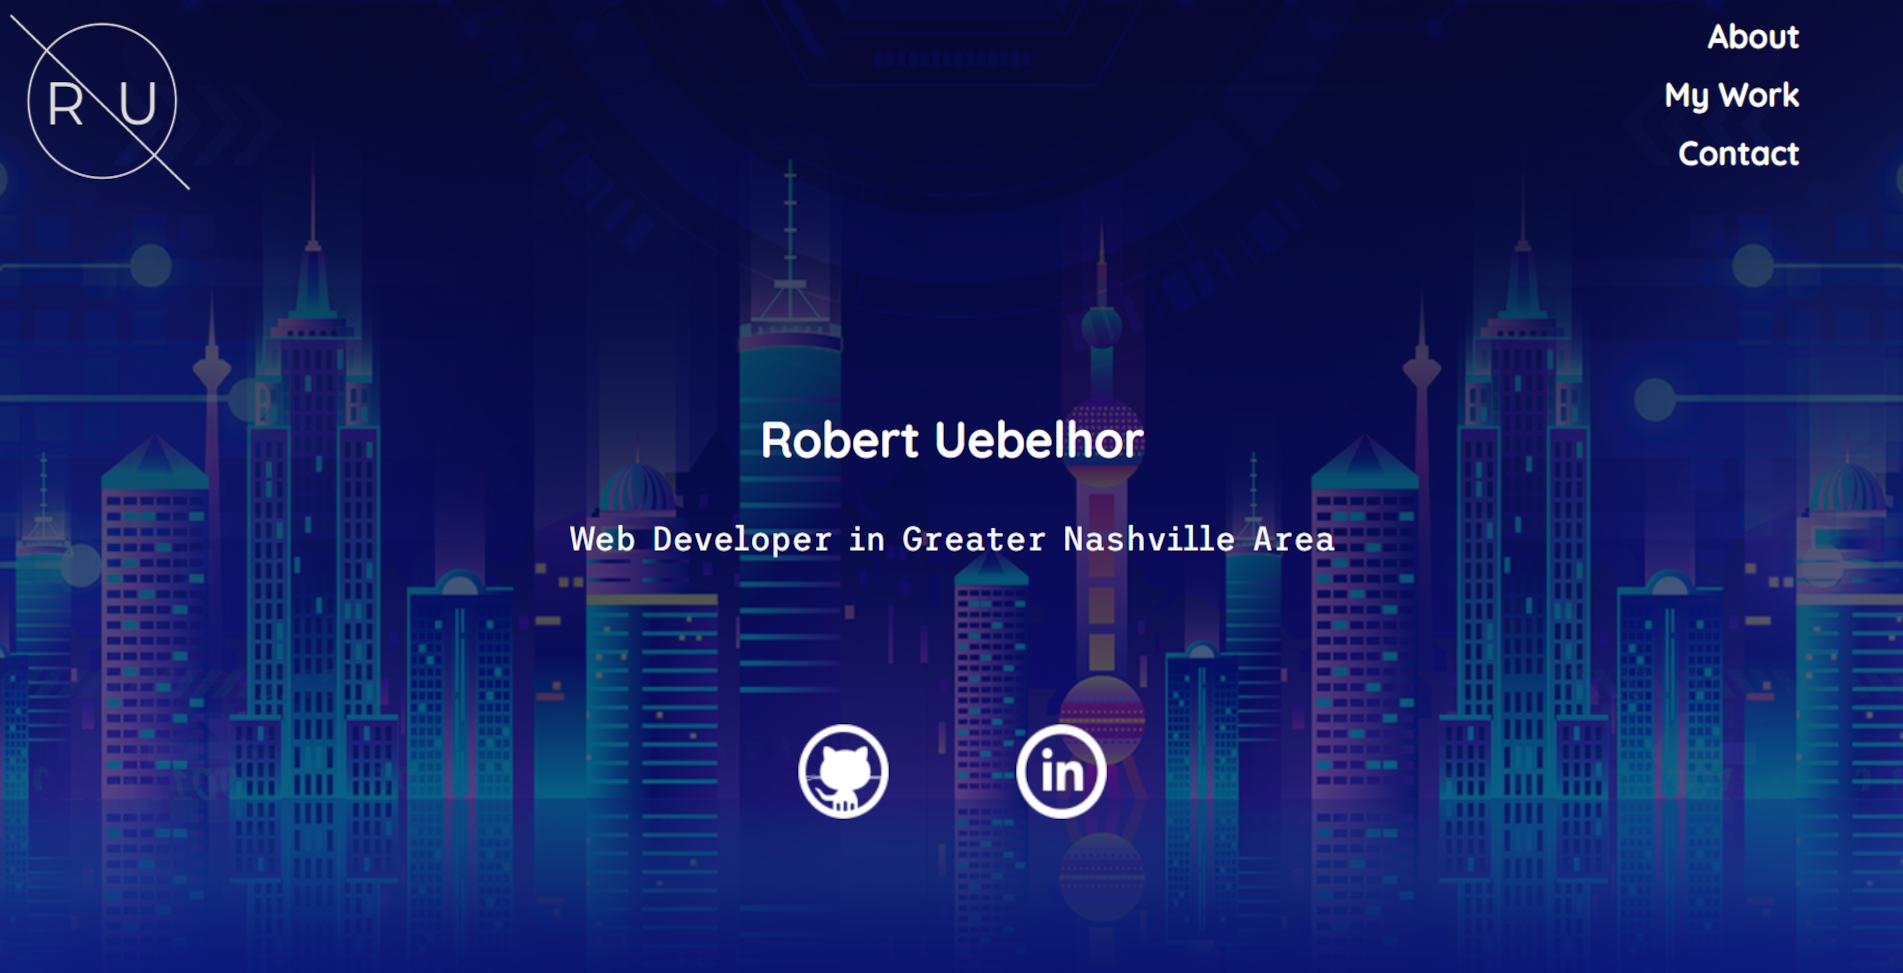
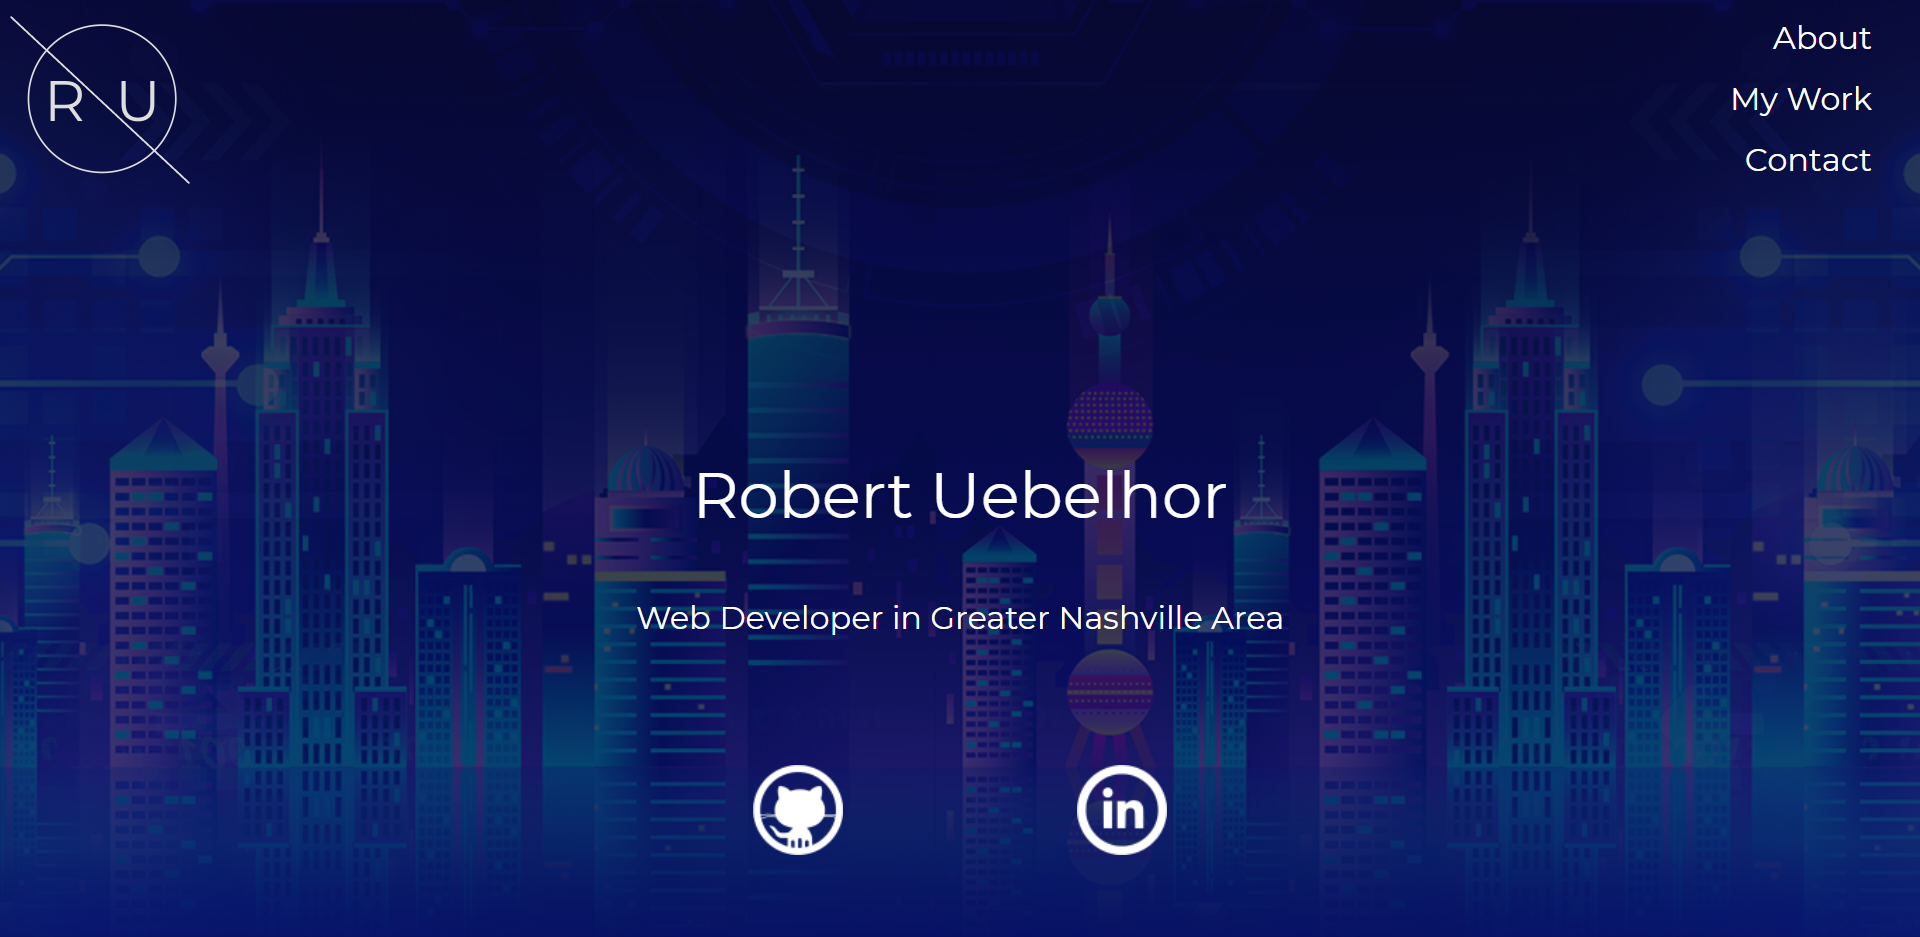
changed grids

diff --git a/index.html b/index.html
@@ -115,6 +115,20 @@
                             </a>
                         </div>
                 </div>
+
+                <div class="grid__item3">
+                    <h2 class="grid__item--title">To Do List</h2>
+                        <div class="card">
+                            <a href="https://drxl95.github.io/To-Do-List/" target="_blank" class="container">
+                                <img src="img/to-do-list-img.png" alt="to-do-list-app" class="card__img">
+                            
+                          <div class="card__text">
+                            <h3 class="card__title2">Small, basic app that entails a to-do list.</h3>
+                            <p class="card__body2">(HTML, CSS, JS, and jquery)</p>
+                          </div>
+                            </a>
+                        </div>
+                </div>
                     
 
             
@@ -165,7 +179,7 @@
             <textarea style="font-weight: bolder; font-size: 1.25rem; color: white; resize:none; font-family: 'Trispace', sans-serif;" id="message" required placeholder="Type your message here..."></textarea>
         </div>
         <div>
-           <button href="sentmsg.html" class="form__button" type="submit"><span class="form__sendmsg">Send Message</span></button>
+           <button id="submit" href="sentmsg.html" class="form__button" type="submit"><span class="form__sendmsg">Send Message</span></button>
         </div>
         </form>
     
@@ -199,6 +213,10 @@
 
     <!-- <script src="js/tota11y.min.js"></script> -->
     <script src="js/main.js"></script>
+    <script
+    src="https://code.jquery.com/jquery-3.5.1.js"
+    integrity="sha256-QWo7LDvxbWT2tbbQ97B53yJnYU3WhH/C8ycbRAkjPDc="
+    crossorigin="anonymous"></script>
     <script src="https://ajax.googleapis.com/ajax/libs/jquery/2.0.0/jquery.min.js"></script>
     <script type="text/javascript" src="js/jquery.min.js"></script>
     

diff --git a/js/main.js b/js/main.js
@@ -11,3 +11,64 @@
 //  let vh = window.innerHeight * 0.01;
 // document.documentElement.style.setProperty('--vh', `${vh}px`);
 // });
+
+
+(function() {
+    let form = document.querySelector('#contact-form');
+    let emailInput = document.querySelector('#email');
+    let nameInput = document.querySelector('#name');
+
+  
+
+    function validateEmail() {
+        let value = emailInput.value;
+        let invalidInput = input.classList.add('input-invalid');
+        if (!value) {
+            return invalidInput;
+        }
+        if (value.indexOf('@') === -1) {
+            return invalidInput;
+        }
+        // invalidInput(emailInput, null);
+        else{ 
+             return true;
+        }
+       
+    }
+
+    function validateName() {
+        let value = nameInput.value;
+        let invalidInput = input.classList.add('input-invalid');
+        if (!value) {
+            return invalidInput;
+        }
+
+        // invalidInput(nameInput, null);
+        else{
+            return true;
+        }
+    }
+        
+    
+
+    function validateForm() {
+        let isValidEmail = validateEmail();
+        let isValidName = validateName();
+        return isValidEmail && isValidName;
+    }
+
+    form.addEventListener('submit', (e) => {
+        e.preventDefault();
+        if (validateForm()) {
+            alert('Succes!');
+        }
+    });
+
+    emailInput.addEventListener('input', validateEmail);
+    nameInput.addEventListener('input', validateName);
+})();
+
+
+   // if (value.length < 8) {
+        //     return invalidInput;
+        // }

diff --git a/CSS/loadingpage.css b/CSS/loadingpage.css
@@ -1,0 +1,87 @@
+* {
+    box-sizing: border-box;
+}
+body {
+    background-image:linear-gradient( rgba(8, 8, 37, 1), rgba(0, 15, 80, 1));
+    margin: 0;
+}
+
+.position {
+  position: absolute;
+  left: 50%;
+  top: 50%;
+  margin-left: -100px;
+  margin-top: -150px;
+  width: fit-content;
+}
+
+.logo {
+    margin-left: auto;
+    margin-right: auto;
+    text-align: center;
+    margin-bottom: 8rem;
+    width: fit-content;
+   animation: bright 1.15s linear infinite alternate;
+}
+@keyframes bright {
+  0% {
+    filter: drop-shadow(0px 0px 0px #ffffff);
+  }
+  100% {
+    filter: drop-shadow(0px 7px 11px #ffffff);
+  }
+}
+
+
+div {
+    height: 21.5px;
+    width: 21.5px;
+    border-radius:50%;
+    transform: scale(0);
+    background-color: white;
+    animation: scaling 2s ease-in-out infinite;
+    display: inline-block;
+    margin:.5rem;
+}
+
+div:nth-child(0){
+  animation-delay:0s;
+}
+div:nth-child(1){
+  animation-delay:0.2s;
+}
+div:nth-child(2){
+  animation-delay:0.4s;
+}
+div:nth-child(3){
+  animation-delay:0.6s;
+}
+div:nth-child(4){
+  animation-delay:0.8s;
+}
+div:nth-child(5){
+  animation-delay:1s;
+}
+div:nth-child(6){
+  animation-delay:1.25s;
+}
+
+.dot {
+  display: none;
+}
+
+
+@keyframes scaling{
+  0%, 100%{
+    transform: scale(0.2);
+    
+  }
+  40%{
+    transform: scale(.75);
+    
+  }
+  50%{
+    transform: scale(.75);
+    
+  }
+}

diff --git a/loadingpage.html b/loadingpage.html
@@ -1,0 +1,29 @@
+<!DOCTYPE html>
+<html lang="en">
+<head>
+    <meta charset="UTF-8">
+    <meta http-equiv="X-UA-Compatible" content="IE=edge">
+    <meta name="viewport" content="width=device-width, initial-scale=1.0">
+    <title>Loading</title>
+    <link rel="shortcut icon" href="img/favivcon.png" type="image/x-icon" />
+    <link href="https://fonts.googleapis.com/css2?family=Montserrat:wght@200&display=swap" rel="stylesheet">
+    <link rel="stylesheet" type="text/css" href="CSS/style.css">
+    <link rel="stylesheet" type="text/css" href="CSS/loadingpage.css">
+</head>
+<body>
+    <section class="position">
+    <article>
+        <img class="logo" src="img/favicon.png" alt="logo"> 
+    </article>
+<article class="dots__position">
+   <div></div>
+   <div></div>
+   <div></div>
+   <div></div>
+   <div></div>
+   <div class="dot"></div>
+</article>
+</section>  
+
+</body>
+</html>

diff --git a/CSS/style.css b/CSS/style.css
@@ -292,7 +292,7 @@ margin-bottom: 4rem;
     justify-items: center;  
     margin-right: 1.75rem;
     margin-left: 1.75rem;
-    margin-bottom: 3rem;
+    padding-bottom: 3rem;
                   
 }
 
@@ -442,6 +442,7 @@ font-weight: bolder;
 font-size: 1.25rem;
 color: white;
 }
+
 .form__name {
     margin-right: 7.925rem;
     
@@ -457,6 +458,10 @@ color: white;
 .form__message {
     margin-top: 1rem;
     margin-bottom: 1rem;
+}
+
+.input-invalid {
+    border-color: red;
 }
 
 .form__button {

diff --git a/js/jquery.min.js b/js/jquery.min.js
@@ -17,4 +17,7 @@ jQuery(document).ready(function() {
 });
 
 
+$('textarea').addClass('new-class');
+
+
 
